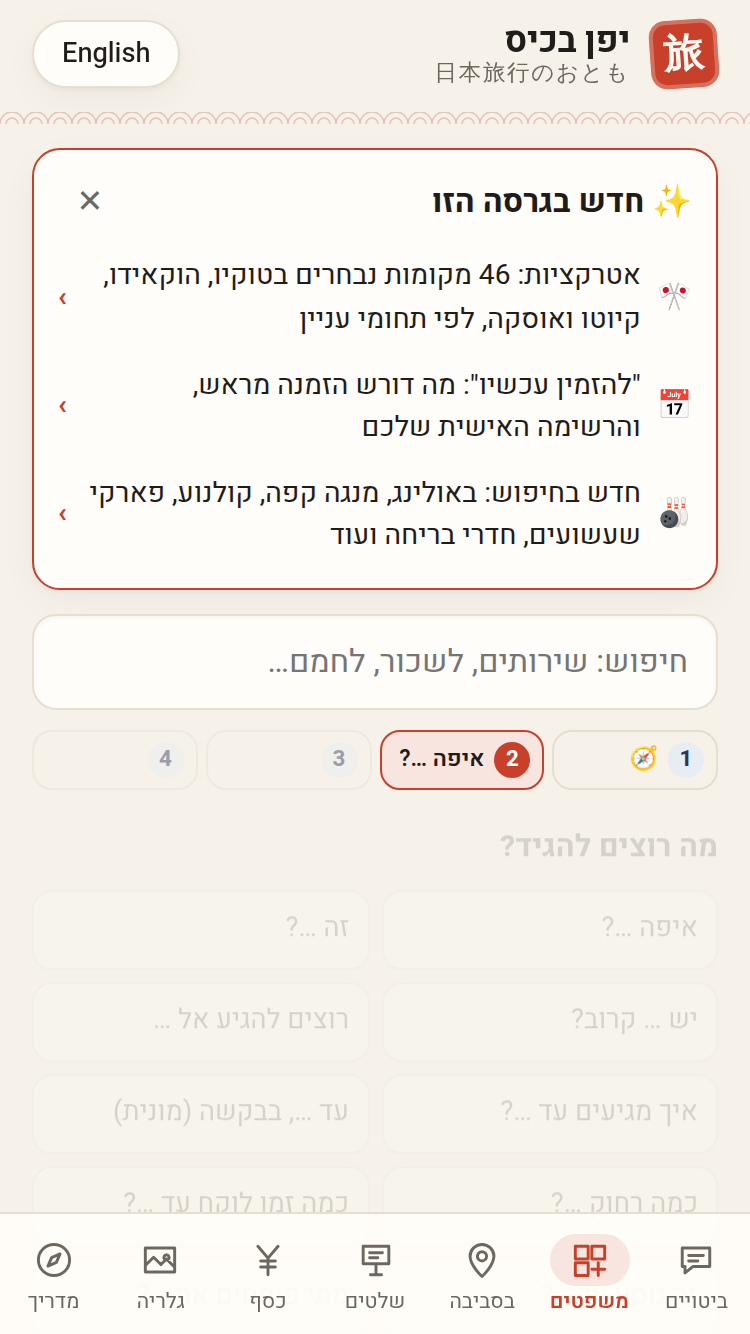
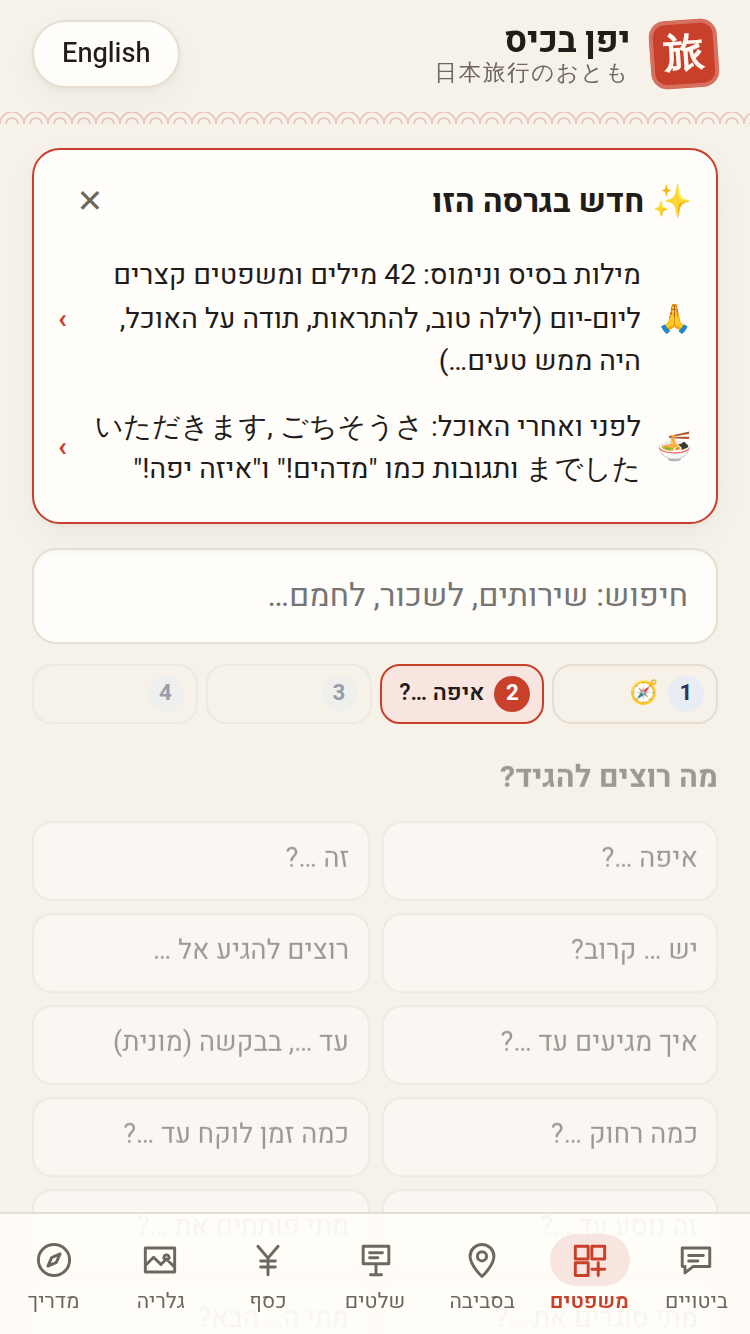
v0.17: Basics & manners, 42 everyday words and short phrases
Adds 24 polite everyday phrases to the basics category (good night,
goodbye, thanks for the meal, it was delicious, sorry, you're welcome,
reactions), relabels the chip, bumps What's new and adds smoke checks.

Claude-Session: https://claude.ai/code/session_018bchT5sCpiiUFh9kUhpGf5

diff --git a/app/src/content/whatsNew.ts b/app/src/content/whatsNew.ts
@@ -3,10 +3,9 @@ import type { Bi } from './guide'
 
 /** Shown once after an update. Bump `version` and replace the items when shipping something worth pointing at. */
 export const WHATS_NEW: { version: string; items: (Bi & { icon: string; tab: Tab })[] } = {
-  version: '0.16',
+  version: '0.17',
   items: [
-    { icon: '🎌', tab: 'nearby', he: 'אטרקציות: 46 מקומות נבחרים בטוקיו, הוקאידו, קיוטו ואוסקה, לפי תחומי עניין', en: 'Attractions: 46 hand-picked places in Tokyo, Hokkaido, Kyoto and Osaka, by interest' },
-    { icon: '📅', tab: 'nearby', he: '"להזמין עכשיו": מה דורש הזמנה מראש, והרשימה האישית שלכם', en: '"Book these now": what needs booking, plus your own list' },
-    { icon: '🎳', tab: 'nearby', he: 'חדש בחיפוש: באולינג, מנגה קפה, קולנוע, פארקי שעשועים, חדרי בריחה ועוד', en: 'New searches: bowling, manga cafés, cinemas, theme parks, escape rooms and more' },
+    { icon: '🙏', tab: 'phrases', he: 'מילות בסיס ונימוס: 42 מילים ומשפטים קצרים ליום-יום (לילה טוב, להתראות, תודה על האוכל, היה ממש טעים…)', en: 'Basics & manners: 42 everyday words and short phrases (good night, goodbye, thanks for the meal, it was delicious…)' },
+    { icon: '🍜', tab: 'phrases', he: 'לפני ואחרי האוכל: いただきます, ごちそうさまでした ותגובות כמו "מדהים!" ו"איזה יפה!"', en: 'Before and after meals: いただきます, ごちそうさまでした, plus reactions like "Amazing!" and "How beautiful!"' },
   ],
 }

diff --git a/app/src/i18n/he.ts b/app/src/i18n/he.ts
@@ -240,7 +240,7 @@ export const he: Record<Key, string> = {
   'phrases.unfavorite': 'הסרה מהמועדפים',
   'phrases.reply': 'מה עונים',
 
-  'cat.basics': 'בסיס',
+  'cat.basics': 'מילות בסיס ונימוס',
   'cat.restaurant': 'מסעדה',
   'cat.shopping': 'קניות',
   'cat.hobbies': 'תחביבים ואספנות',

diff --git a/app/src/i18n/en.ts b/app/src/i18n/en.ts
@@ -239,7 +239,7 @@ export const en = {
   'phrases.unfavorite': 'Remove from favorites',
   'phrases.reply': 'You answer',
 
-  'cat.basics': 'Basics',
+  'cat.basics': 'Basics & manners',
   'cat.restaurant': 'Restaurant',
   'cat.shopping': 'Shopping',
   'cat.hobbies': 'Hobbies & collecting',

diff --git a/README.md b/README.md
@@ -9,7 +9,7 @@ visitor well.
 2. **Money:** know what something costs in shekels and dollars, and handle a
    country that still runs on cash.
 
-> **Status:** v0.16: 🎌 Attractions in the Nearby tab: 46 hand-picked places (Tokyo, Hokkaido, Kyoto, Osaka) by interest (Nintendo/Pokémon/anime, arcades & retro, experiences & art, nature/onsen/culture), with booking status, a "book these now" list, official links, map, and a personal ⭐ / 🎟 / ✓ list; 6 new in-app place lists (bowling, manga cafés, cinemas, theme parks, batting centres, planetariums). v0.15: 🖼 new Gallery tab (tickets & QR, hotels & bookings, documents, maps, receipts, other), photos kept on the phone in IndexedDB (shrunk to 1600 px, open offline, share/save, move category, delete); 🧾 receipt photos attached to wallet expenses; the Sentences tab now holds the builder and free translation on one screen, with compact Google tool chips and a "translate what I typed" row in the search. v0.14: 👂 "They say" has 46 situations (konbini, restaurant, shop, station, street, hotel) with place filters, and 39 of them come with ready replies you can hear (🔊/🐢) and show as a card; Google Translate buttons open the app first (fast) and fall back to the website. v0.13: 🧭 directions: a Directions phrase category (26: right/left/straight/forward/back/up/down, compass points, taxi turns, "is it far?", "show me on the map"), 6 "they say" answers people give when you ask the way, 6 signs (上り/下り, stairs, floors, basement), and an "Is it …?" builder frame (on the right, upstairs, across the street…). v0.12: the 🧩 builder is a four-step wizard on one screen (situation → sentence → word → result, with breadcrumbs, quick word swaps and a Google Translate double-check), plus 🌐 free translation handed to Google Translate (web or app, he↔ja, en→ja) and shortcuts to Google Translate camera/conversation/handwriting and Google Lens. Google blocks embedding Translate/Lens, and in-app speech recognition doesn't work in iPhone home-screen apps, so we hand off instead. v0.11: 📍 in-app nearest lists with names and a map for 60 quick searches (≈ 490,000 places across Japan from OpenStreetMap, checked for coverage in Tokyo, Shinjuku, Namba, Kyoto and Sapporo), 10 new searches, 8 new place words in the builder. v0.10: 🐉 "tattoo-friendly only" switch in Nearby (onsen, sento, sauna, gym, pool searches limited to タトゥーOK places, private-bath options, tips, phrases, and the Tattoo Friendly database). v0.9: konbini labels in Signs and a one-time ✨ "What's new" card after each update. v0.8: 👛 trip wallet, 🏨 saved places with a taxi card, 🎴 practice flashcards, 👟 size converter, 🍁 autumn guide; Nearby adds konbini, 60+ searches and local apps. v0.7 added the 📍 Nearby tab (toilets and bins). v0.6: The builder only offers sensible sentences (58 frames, 3,056 hand-checked
+> **Status:** v0.17: 🙏 the Basics chip is now "Basics & manners" with 42 everyday words and short phrases (good night, goodbye, leaving a shop, thank you very much, you're welcome, sorry, no thank you, いただきます, ごちそうさまでした, "it was really delicious", "I'm full", amazing, cute, beautiful, thanks for everything, it was fun). v0.16: 🎌 Attractions in the Nearby tab: 46 hand-picked places (Tokyo, Hokkaido, Kyoto, Osaka) by interest (Nintendo/Pokémon/anime, arcades & retro, experiences & art, nature/onsen/culture), with booking status, a "book these now" list, official links, map, and a personal ⭐ / 🎟 / ✓ list; 6 new in-app place lists (bowling, manga cafés, cinemas, theme parks, batting centres, planetariums). v0.15: 🖼 new Gallery tab (tickets & QR, hotels & bookings, documents, maps, receipts, other), photos kept on the phone in IndexedDB (shrunk to 1600 px, open offline, share/save, move category, delete); 🧾 receipt photos attached to wallet expenses; the Sentences tab now holds the builder and free translation on one screen, with compact Google tool chips and a "translate what I typed" row in the search. v0.14: 👂 "They say" has 46 situations (konbini, restaurant, shop, station, street, hotel) with place filters, and 39 of them come with ready replies you can hear (🔊/🐢) and show as a card; Google Translate buttons open the app first (fast) and fall back to the website. v0.13: 🧭 directions: a Directions phrase category (26: right/left/straight/forward/back/up/down, compass points, taxi turns, "is it far?", "show me on the map"), 6 "they say" answers people give when you ask the way, 6 signs (上り/下り, stairs, floors, basement), and an "Is it …?" builder frame (on the right, upstairs, across the street…). v0.12: the 🧩 builder is a four-step wizard on one screen (situation → sentence → word → result, with breadcrumbs, quick word swaps and a Google Translate double-check), plus 🌐 free translation handed to Google Translate (web or app, he↔ja, en→ja) and shortcuts to Google Translate camera/conversation/handwriting and Google Lens. Google blocks embedding Translate/Lens, and in-app speech recognition doesn't work in iPhone home-screen apps, so we hand off instead. v0.11: 📍 in-app nearest lists with names and a map for 60 quick searches (≈ 490,000 places across Japan from OpenStreetMap, checked for coverage in Tokyo, Shinjuku, Namba, Kyoto and Sapporo), 10 new searches, 8 new place words in the builder. v0.10: 🐉 "tattoo-friendly only" switch in Nearby (onsen, sento, sauna, gym, pool searches limited to タトゥーOK places, private-bath options, tips, phrases, and the Tattoo Friendly database). v0.9: konbini labels in Signs and a one-time ✨ "What's new" card after each update. v0.8: 👛 trip wallet, 🏨 saved places with a taxi card, 🎴 practice flashcards, 👟 size converter, 🍁 autumn guide; Nearby adds konbini, 60+ searches and local apps. v0.7 added the 📍 Nearby tab (toilets and bins). v0.6: The builder only offers sensible sentences (58 frames, 3,056 hand-checked
 > combinations), with long word lists folded behind "+N more". Light, modern Japanese design; 137 ready phrases; works offline.
 
 **Live app:** https://guyyyy15-web.github.io/japan-companion/ (deployed automatically
